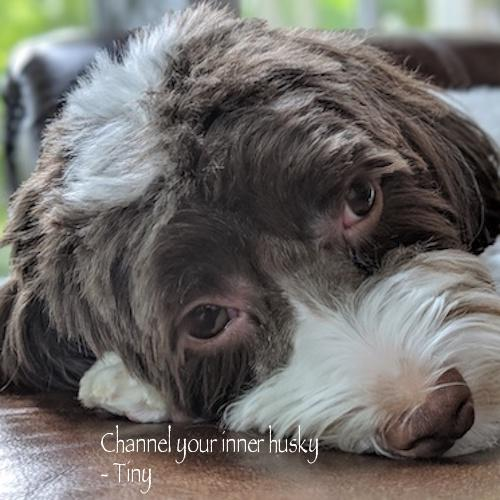
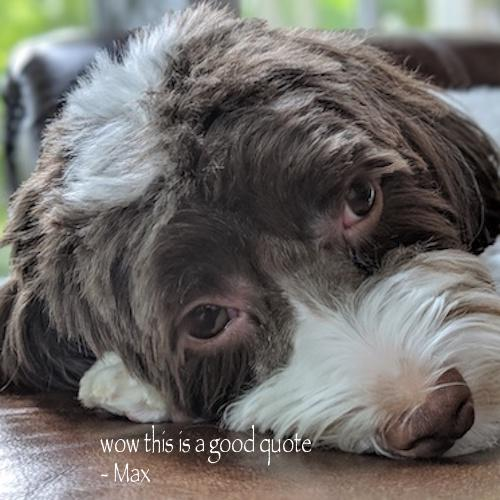
Implement the argparse functionality when running from the cl

Changed region(s): [[0.18, 0.84, 0.66, 0.99]]

diff --git a/meme.py b/meme.py
@@ -2,6 +2,7 @@
 
 import os
 import random
+from argparse import ArgumentParser
 from QuoteEngine import Ingestor
 from MemeEngine import MemeEngine
 from QuoteEngine import QuoteModel
@@ -11,6 +12,8 @@ def generate_meme(path=None, body=None, author=None):
     """Generate a meme given an path and a quote."""
     img = None
     quote = None
+
+    print('Body: ', body)
 
     if path is None:
         images = "./_data/photos/dog/"
@@ -35,7 +38,7 @@ def generate_meme(path=None, body=None, author=None):
     else:
         if author is None:
             raise Exception('Author Required if Body is Used')
-        quote = QuoteModel(body, author)
+        quote = QuoteModel(author, body)
 
     meme = MemeEngine('./memes/')
     path = meme.make_meme(img, quote.body, quote.author)
@@ -43,10 +46,24 @@ def generate_meme(path=None, body=None, author=None):
 
 
 if __name__ == "__main__":
-    # @TODO Use ArgumentParser to parse the following CLI arguments
-    # path - path to an image file
-    # body - quote body to add to the image
-    # author - quote author to add to the image
-    args = None
-    print(generate_meme('_data/photos/dog/xander_1.jpg', None, None))
-    # print(generate_meme(args.path, args.body, args.author))
+    """Script to run the meme generator via the command line.
+
+    Takes a photo to memify, and optional arguments for quote body and
+    author.
+    """
+
+    parser = ArgumentParser(description='Parse meme generation parameters')
+
+    parser.add_argument('path',
+                        type=str,
+                        help='required filepath for input image')
+    parser.add_argument('--body',
+                        type=str,
+                        help='optional quote body')
+    parser.add_argument('--author',
+                        type=str,
+                        help='quote author (required if body is specified)')
+    args = parser.parse_args()
+
+    # print(generate_meme('_data/photos/dog/xander_1.jpg', None, None))
+    print(generate_meme(args.path, args.body, args.author))

diff --git a/MemeEngine/MemeEngine.py b/MemeEngine/MemeEngine.py
@@ -20,6 +20,7 @@ class MemeEngine():
         Also resize and process the image before adding the
         meme text.
         """
+        print('Body: ', body)
         img = Image.open(img_path)
 
         # Crop the images
